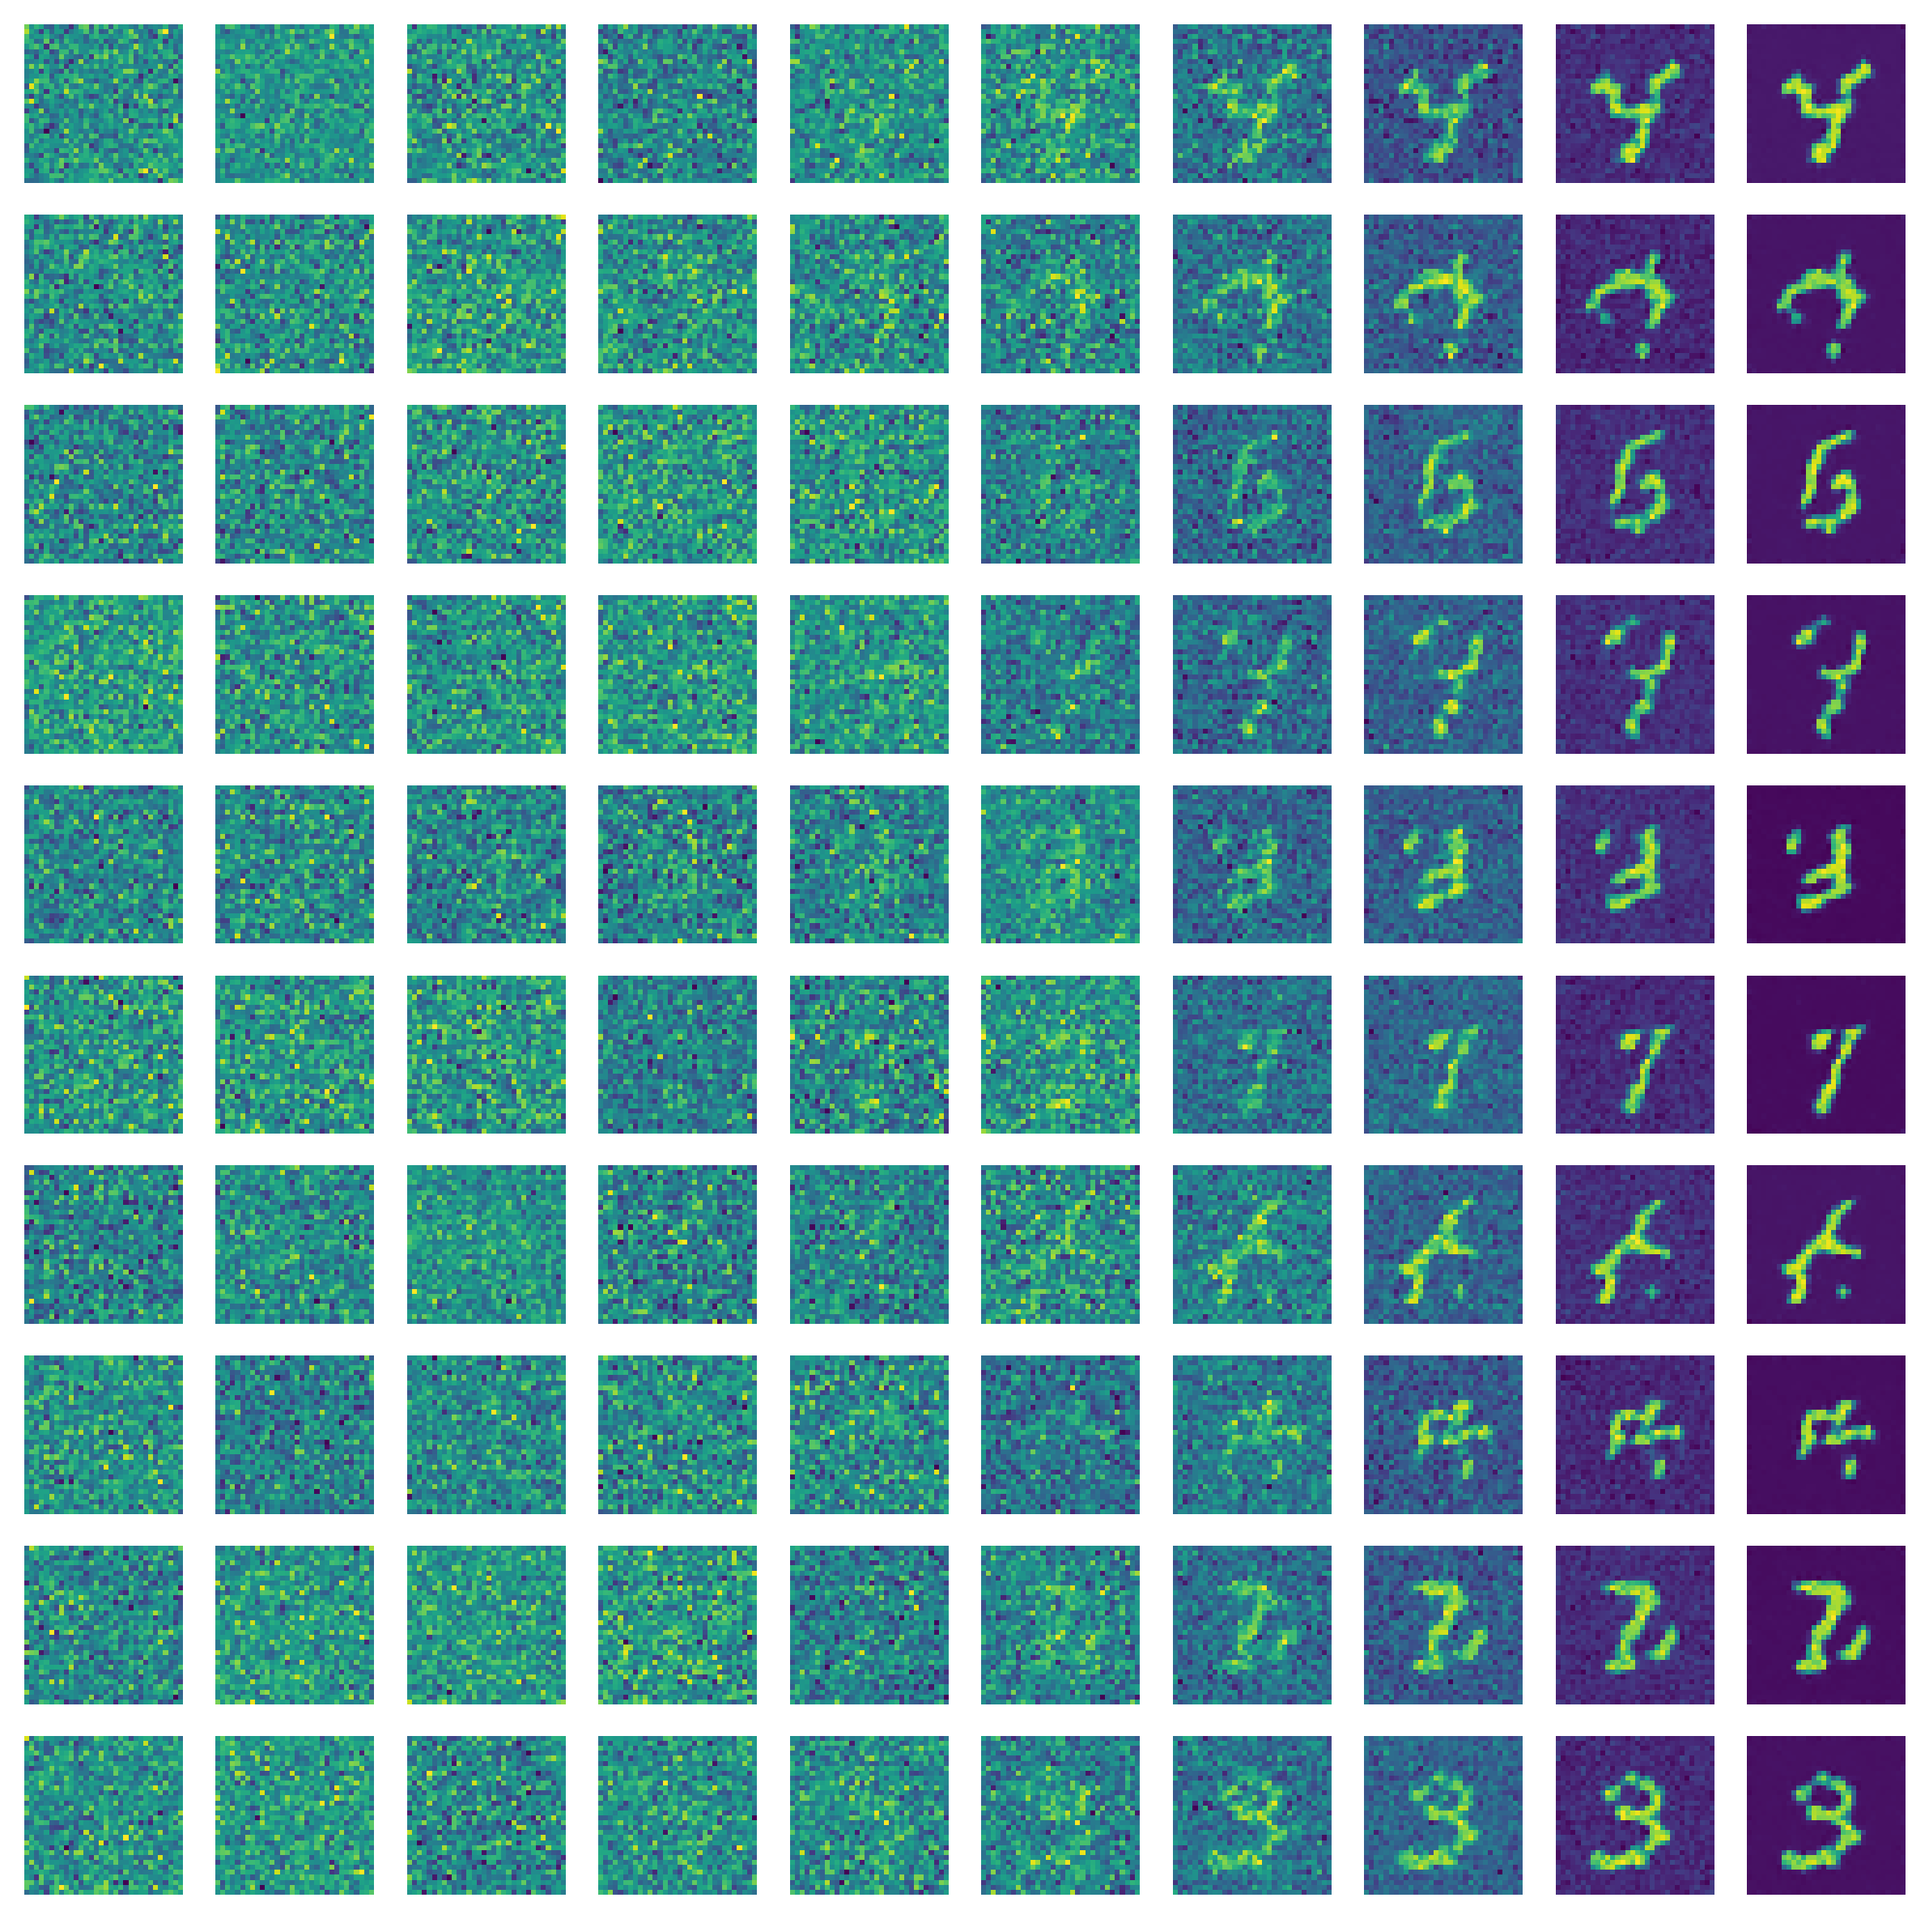
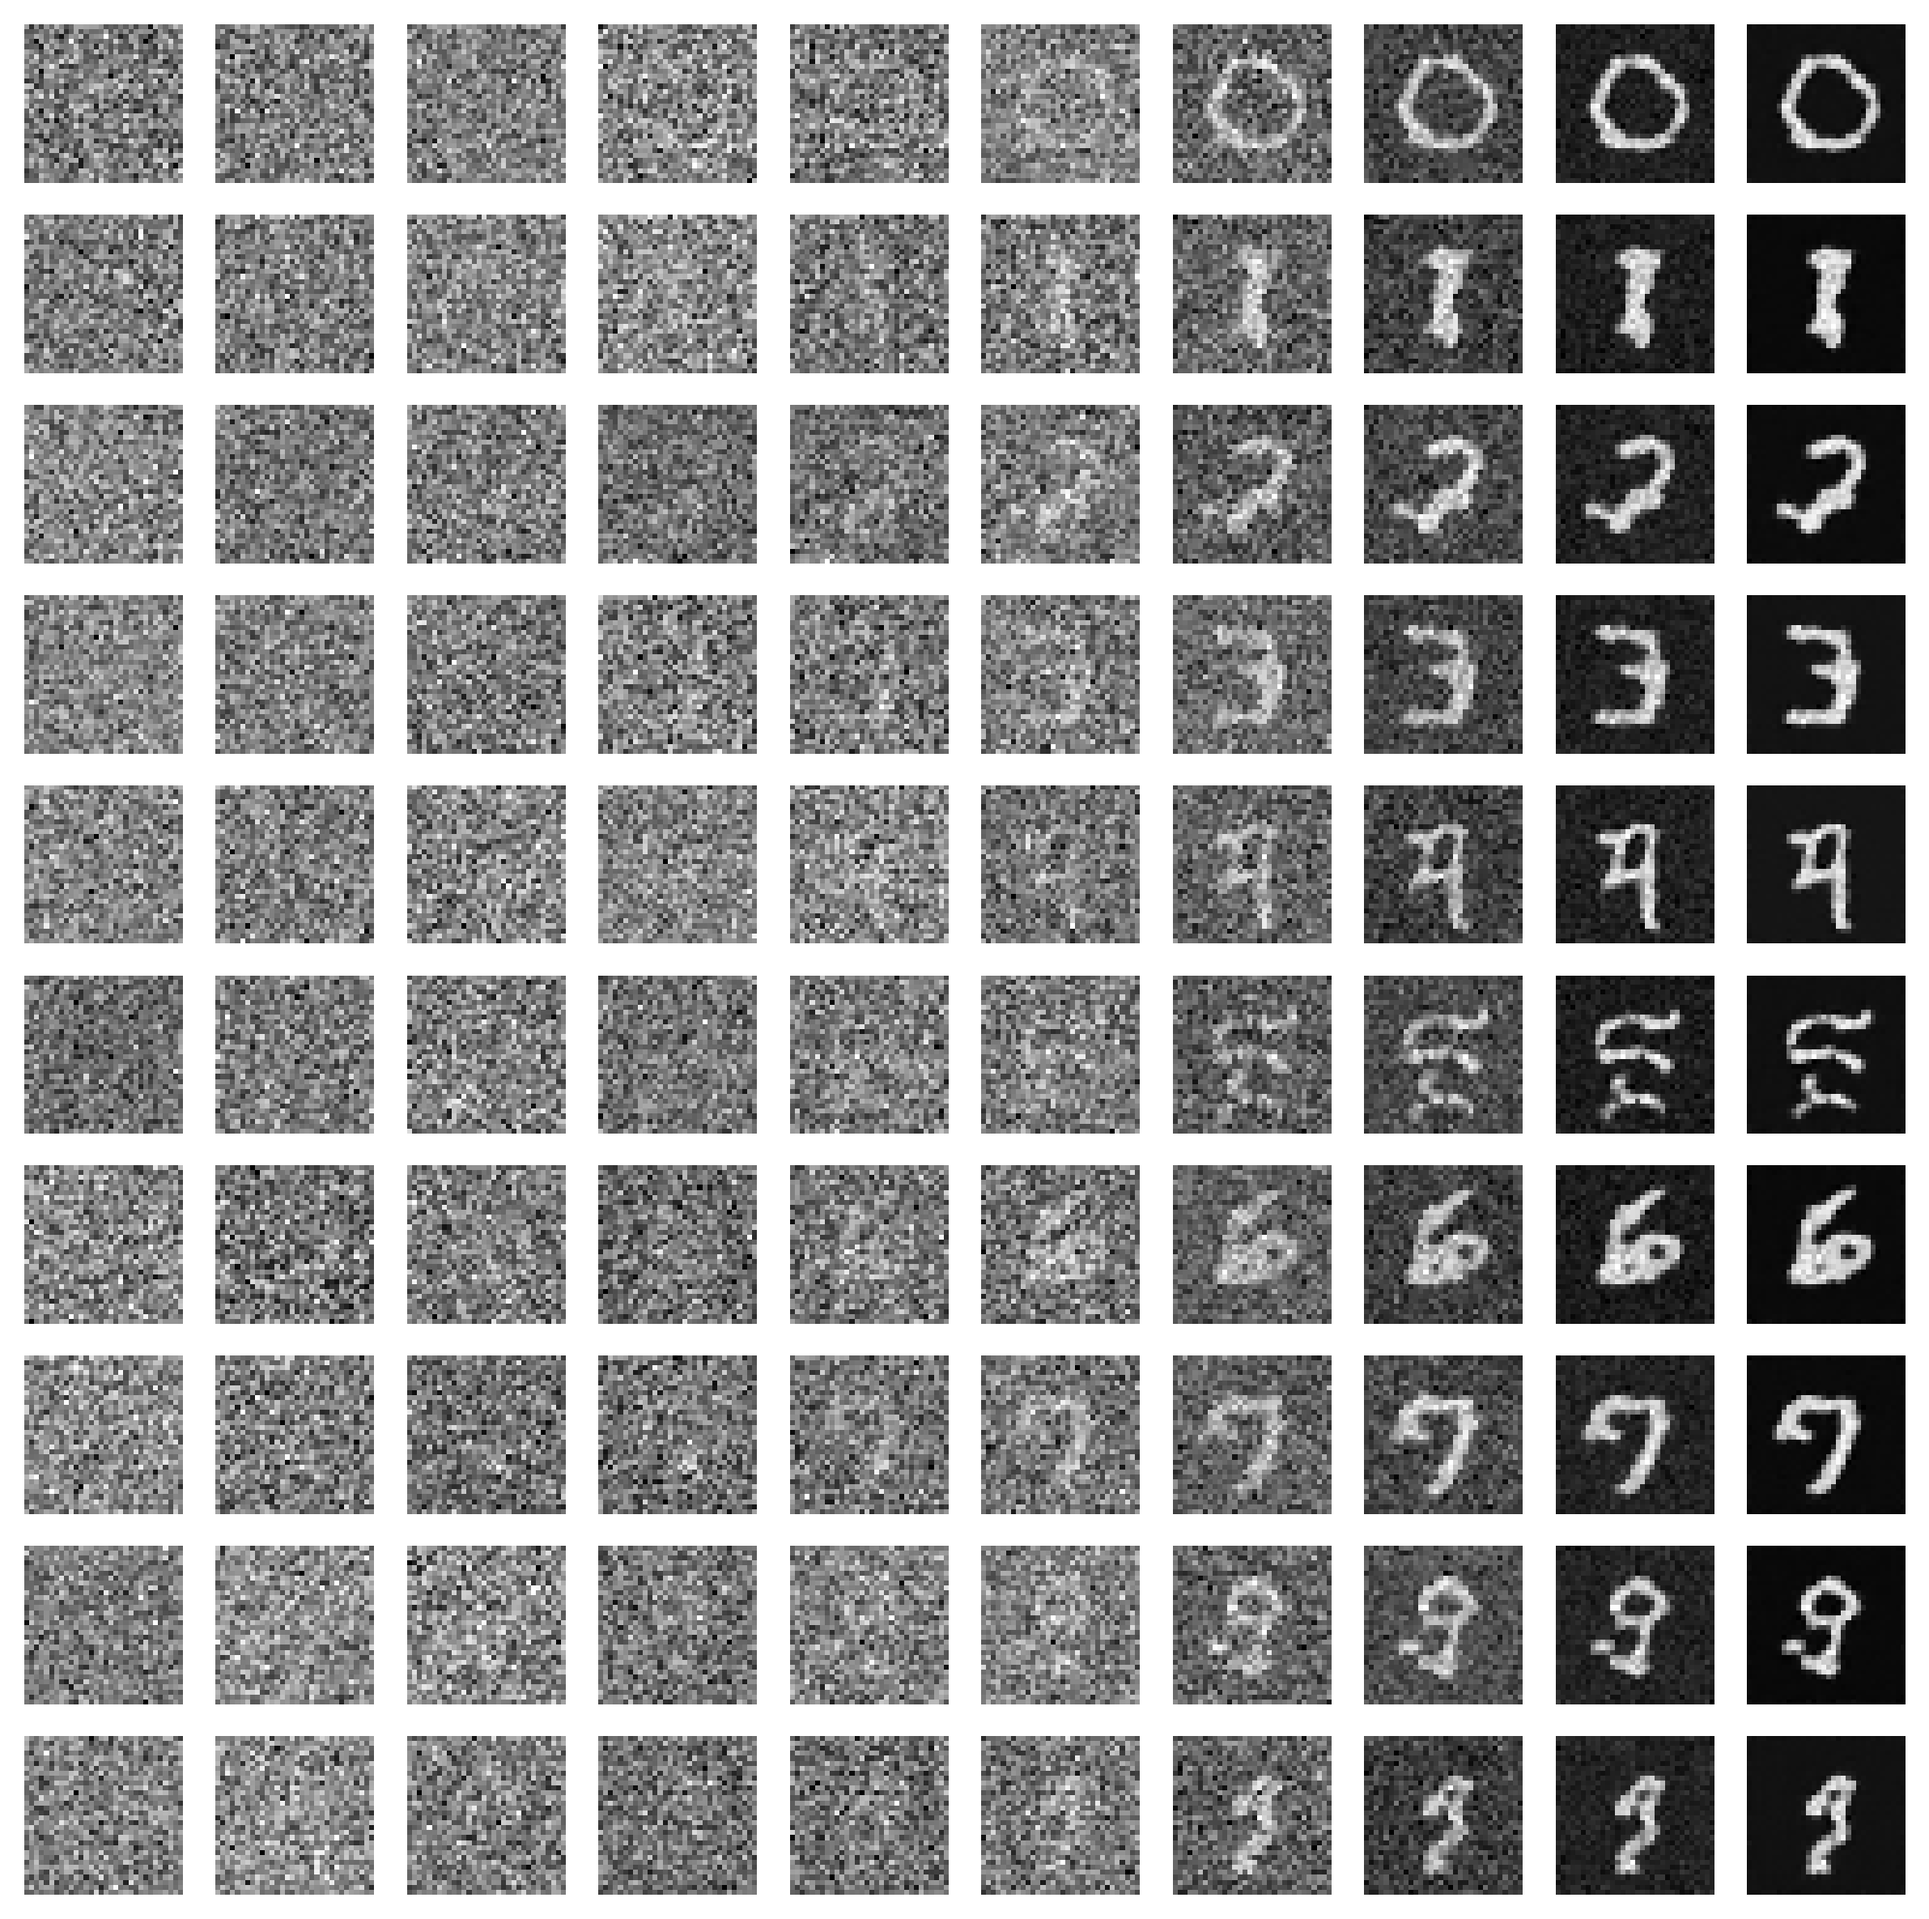
text conditioning

diff --git a/diffusion_mnist.py b/diffusion_mnist.py
@@ -1,6 +1,6 @@
 # Imports
 from unet import UNET
-from text_conditioned_unet import TextConditionedUNET
+from text_conditioned_unet import TextConditionedUNET, TextEmbeddings
 from utils import display_reverse
 
 import torch
@@ -20,15 +20,16 @@ import numpy as np
 
 # CONFIG
 DEVICE_ = torch.device("cuda" if torch.cuda.is_available() else "cpu")
+print("DEVICE_", DEVICE_)
 TEXT_CONDITIONED_ = True
 
 
 class DDPM_Scheduler(nn.Module):
     def __init__(self, num_time_steps: int=1000):
         super().__init__()
-        self.beta = torch.linspace(1e-4, 0.02, num_time_steps, requires_grad=False)
+        self.beta = torch.linspace(1e-4, 0.02, num_time_steps, requires_grad=False).to(DEVICE_)
         alpha = 1 - self.beta
-        self.alpha = torch.cumprod(alpha, dim=0).requires_grad_(False)
+        self.alpha = torch.cumprod(alpha, dim=0).requires_grad_(False).to(DEVICE_)
     
     def forward(self, t):
         return self.beta[t], self.alpha[t]
@@ -53,7 +54,7 @@ def train(batch_size: int=64,
 
     set_seed(random.randint(0, 2**32-1) if seed == -1 else seed)
     train_dataset = datasets.MNIST(root='./data', train=True, download=True, transform=transforms.ToTensor())
-    train_loader = DataLoader(train_dataset, batch_size, shuffle=True, drop_last=True, num_workers=4)
+    train_loader = DataLoader(train_dataset, batch_size, shuffle=False, drop_last=True, num_workers=4)
 
     scheduler = DDPM_Scheduler(num_time_steps)
     model = TextConditionedUNET().to(DEVICE_) if text_conditioned else UNET().to(DEVICE_)
@@ -66,6 +67,17 @@ def train(batch_size: int=64,
         optimizer.load_state_dict(checkpoint['optimizer'])
     criterion = nn.MSELoss(reduction='mean')
 
+    # Precompute all Text Embeddings.
+    print("Precomputing all Text Embeddings.")
+    text_embedder = TextEmbeddings().to(DEVICE_)
+    all_labels = [f"Drawing of the number {i}" for i in train_loader.dataset.targets.tolist()]
+    all_label_embeddings = torch.Tensor([]).to(DEVICE_)
+    for i in range(0, len(all_labels), len(all_labels)//5):
+        labels = all_labels[i:i+len(all_labels)//5]
+        embeddings = text_embedder(labels)
+        all_label_embeddings = torch.cat([all_label_embeddings, embeddings], dim = 0)
+    print("Done Precomputing all Text Embeddings.")
+
     for i in range(num_epochs):
         total_loss = 0
         for bidx, (x, labels) in enumerate(tqdm(train_loader, desc=f"Epoch {i+1}/{num_epochs}")):
@@ -77,7 +89,7 @@ def train(batch_size: int=64,
             x = torch.sqrt(a)*x + torch.sqrt(1-a)*e # Var is 1-a, stdev is sqrt of that, accumulated steps.
             # model predicts the noise e that was added (and accumulated to t)
             if text_conditioned:
-                output = model(x, t, [f"Drawing of the number {i}" for i in labels.tolist()])
+                output = model(x, t, all_label_embeddings[bidx*batch_size:bidx*batch_size + batch_size])
             else:
                 output = model(x,t) 
             optimizer.zero_grad()
@@ -118,7 +130,8 @@ def inference(checkpoint_path: str=None,
     model.load_state_dict(checkpoint['weights'])
     ema = ModelEmaV3(model, decay=ema_decay)
     ema.load_state_dict(checkpoint['ema'])
-    scheduler = DDPM_Scheduler(num_time_steps)
+    scheduler = DDPM_Scheduler(num_time_steps).to(DEVICE_)
+    text_embedder = TextEmbeddings().to(DEVICE_)
     times = [0,15,50,100,200,300,400,550,700,999]
     images = []
 
@@ -126,35 +139,34 @@ def inference(checkpoint_path: str=None,
         model = ema.module.eval()
         print("Running Inference...")
         for i in range(num_images): # 10 images.
-            text = f"Drawing of the Number {i % 10}"
+            text = f"Drawing of the number {i % 10}"
+            embeddings = text_embedder([text])
             images.append([]) 
-            z = torch.randn(1, 1, 32, 32) # Start from noise, we will create image.
+            z = torch.randn(1, 1, 32, 32).to(DEVICE_) # Start from noise, we will create image.
 
             for t in reversed(range(1, num_time_steps)):
                 t = [t]
                 temp = (scheduler.beta[t]/( (torch.sqrt(1-scheduler.alpha[t]))*(torch.sqrt(1-scheduler.beta[t])) ))
-                model_output = model(z.to(DEVICE_),t,text).cpu() if text_conditioned else model(z.to(DEVICE_),t).cpu()
+                model_output = model(z,t,embeddings) if text_conditioned else model(z,t)
                 z = (1/(torch.sqrt(1-scheduler.beta[t])))*z - (temp*model_output) # weighted sum of prev z and model output.
                 if t[0] in times:
                     images[-1].append(z)
                 # Add some noise for stability
-                e = torch.randn(1,1,32,32)
+                e = torch.randn(1,1,32,32).to(DEVICE_)
                 z = z + (e*torch.sqrt(scheduler.beta[t]))
             
             # Last step, same as before but don't add noise at end.
-            temp = scheduler.beta[0]/( (torch.sqrt(1-scheduler.alpha[0]))*(torch.sqrt(1-scheduler.beta[0])))                
-            x = (1/(torch.sqrt(1-scheduler.beta[0])))*z - (temp*model(z.to(DEVICE_),[0]).cpu())
+            temp = scheduler.beta[0]/( (torch.sqrt(1-scheduler.alpha[0]))*(torch.sqrt(1-scheduler.beta[0]))) 
+            model_output = model(z,[0], embeddings) if text_conditioned else model(z,[0])
+            x = (1/(torch.sqrt(1-scheduler.beta[0])))*z - (temp*model_output)
 
             images[-1].append(x)
             x = rearrange(x.squeeze(0), 'c h w -> h w c').detach()
-            x=x.numpy()
-            plt.imshow(x)
-            plt.show()
             display_reverse(images, save_path="images/example.png")
             
 
 def main():
-    train(lr=2e-6, num_epochs=100, text_conditioned =TEXT_CONDITIONED_)
+    #train(lr=2e-6, num_epochs=100, text_conditioned =TEXT_CONDITIONED_)
     inference('checkpoints/ddpm_checkpoint', num_images=10, text_conditioned =TEXT_CONDITIONED_)
 
 if __name__ == '__main__':

diff --git a/text_conditioned_unet.py b/text_conditioned_unet.py
@@ -1,7 +1,8 @@
 # Imports
 import torch
 import torch.nn as nn
-from transformers import CLIPTextModel, CLIPTokenizer
+from transformers import CLIPTokenizer
+from transformers.models.clip.modeling_clip import CLIPTextModel
 from unet import UNET
 from typing import List
 
@@ -22,7 +23,7 @@ class TextEmbeddings(nn.Module):
     def forward(self, text_prompts: List[str]) -> torch.Tensor: # [B, D]
         if isinstance(text_prompts, str):
             text_prompts = [text_prompts]
-        
+
         tokens = self.tokenizer(
             text_prompts,
             padding=True,
@@ -50,17 +51,15 @@ class TextConditionedUNET(UNET):
         super().__init__()
         self.text_embeddings = TextEmbeddings()
     
-    def forward(self, x , t, text_prompts):
+    def forward(self, x , t, text_embeddings):
         x = self.shallow_conv(x)
         residuals = []
         # Downwards part of U
         for i in range(self.num_layers//2):
             layer = getattr(self, f'Layer{i+1}')
             positional_embeddings = self.positional_embeddings(x, t)
-            text_embeddings = self.text_embeddings(text_prompts)
-            # Add Text Embeddings to the positional embeddings.
 
-            embeddings = text_embeddings[:, :, None, None] + positional_embeddings
+            embeddings = positional_embeddings + text_embeddings[:, :, None, None]
             x, r = layer(x, embeddings)
             residuals.append(r)
         # Upwards Part of U

diff --git a/utils.py b/utils.py
@@ -9,8 +9,8 @@ def display_reverse(images: List[List], save_path: str = "images/example.png"):
     for i, ax in enumerate(axes.flat):
         x = flattened_image_list[i].squeeze(0)
         x = rearrange(x, 'c h w -> h w c')
-        x = x.numpy()
-        ax.imshow(x)
+        x = x.cpu().numpy()
+        ax.imshow(x.squeeze(-1), cmap='gray')
         ax.axis('off')
     if save_path:
         plt.savefig(save_path, dpi=300, bbox_inches='tight')
